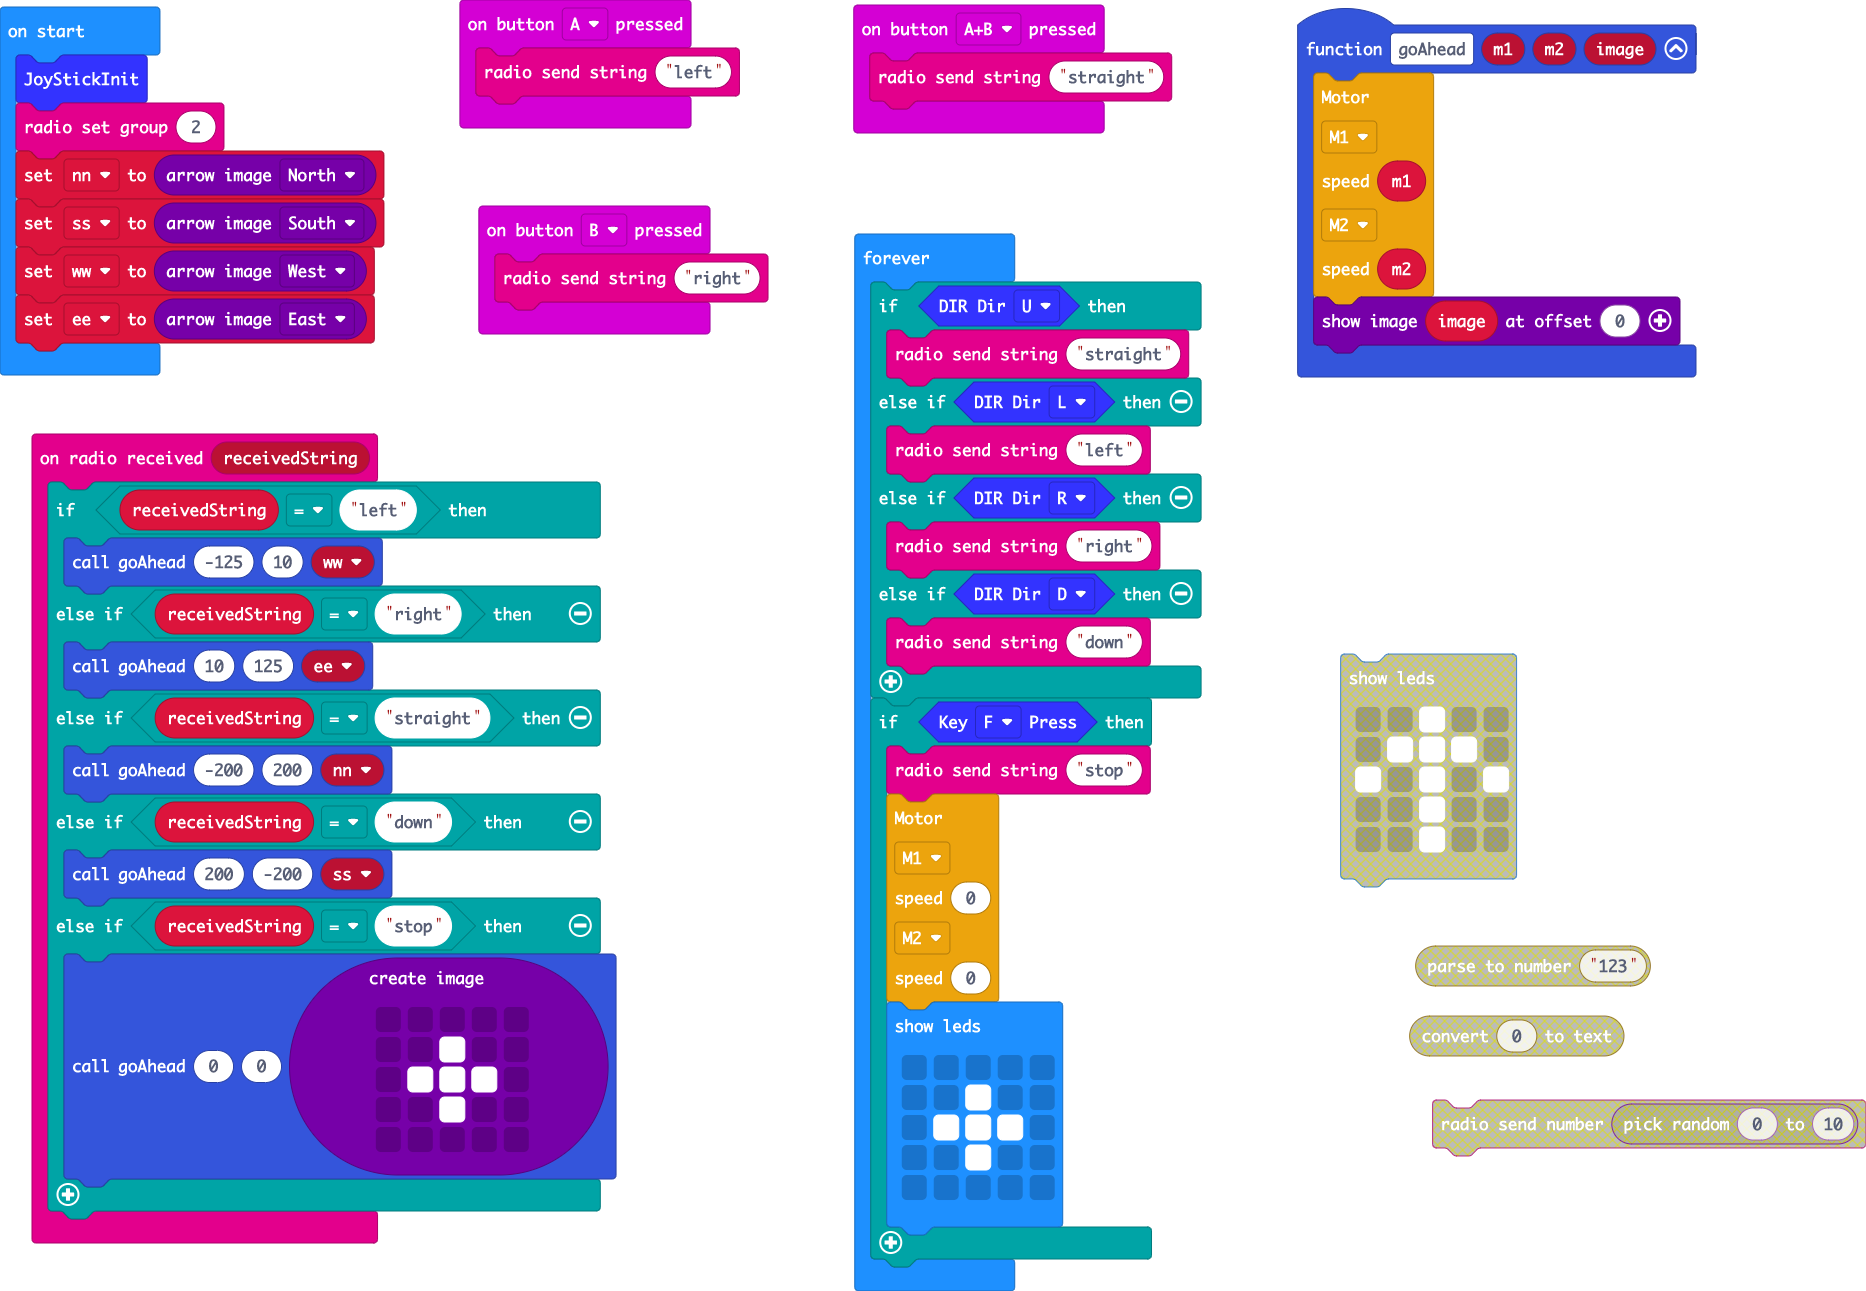
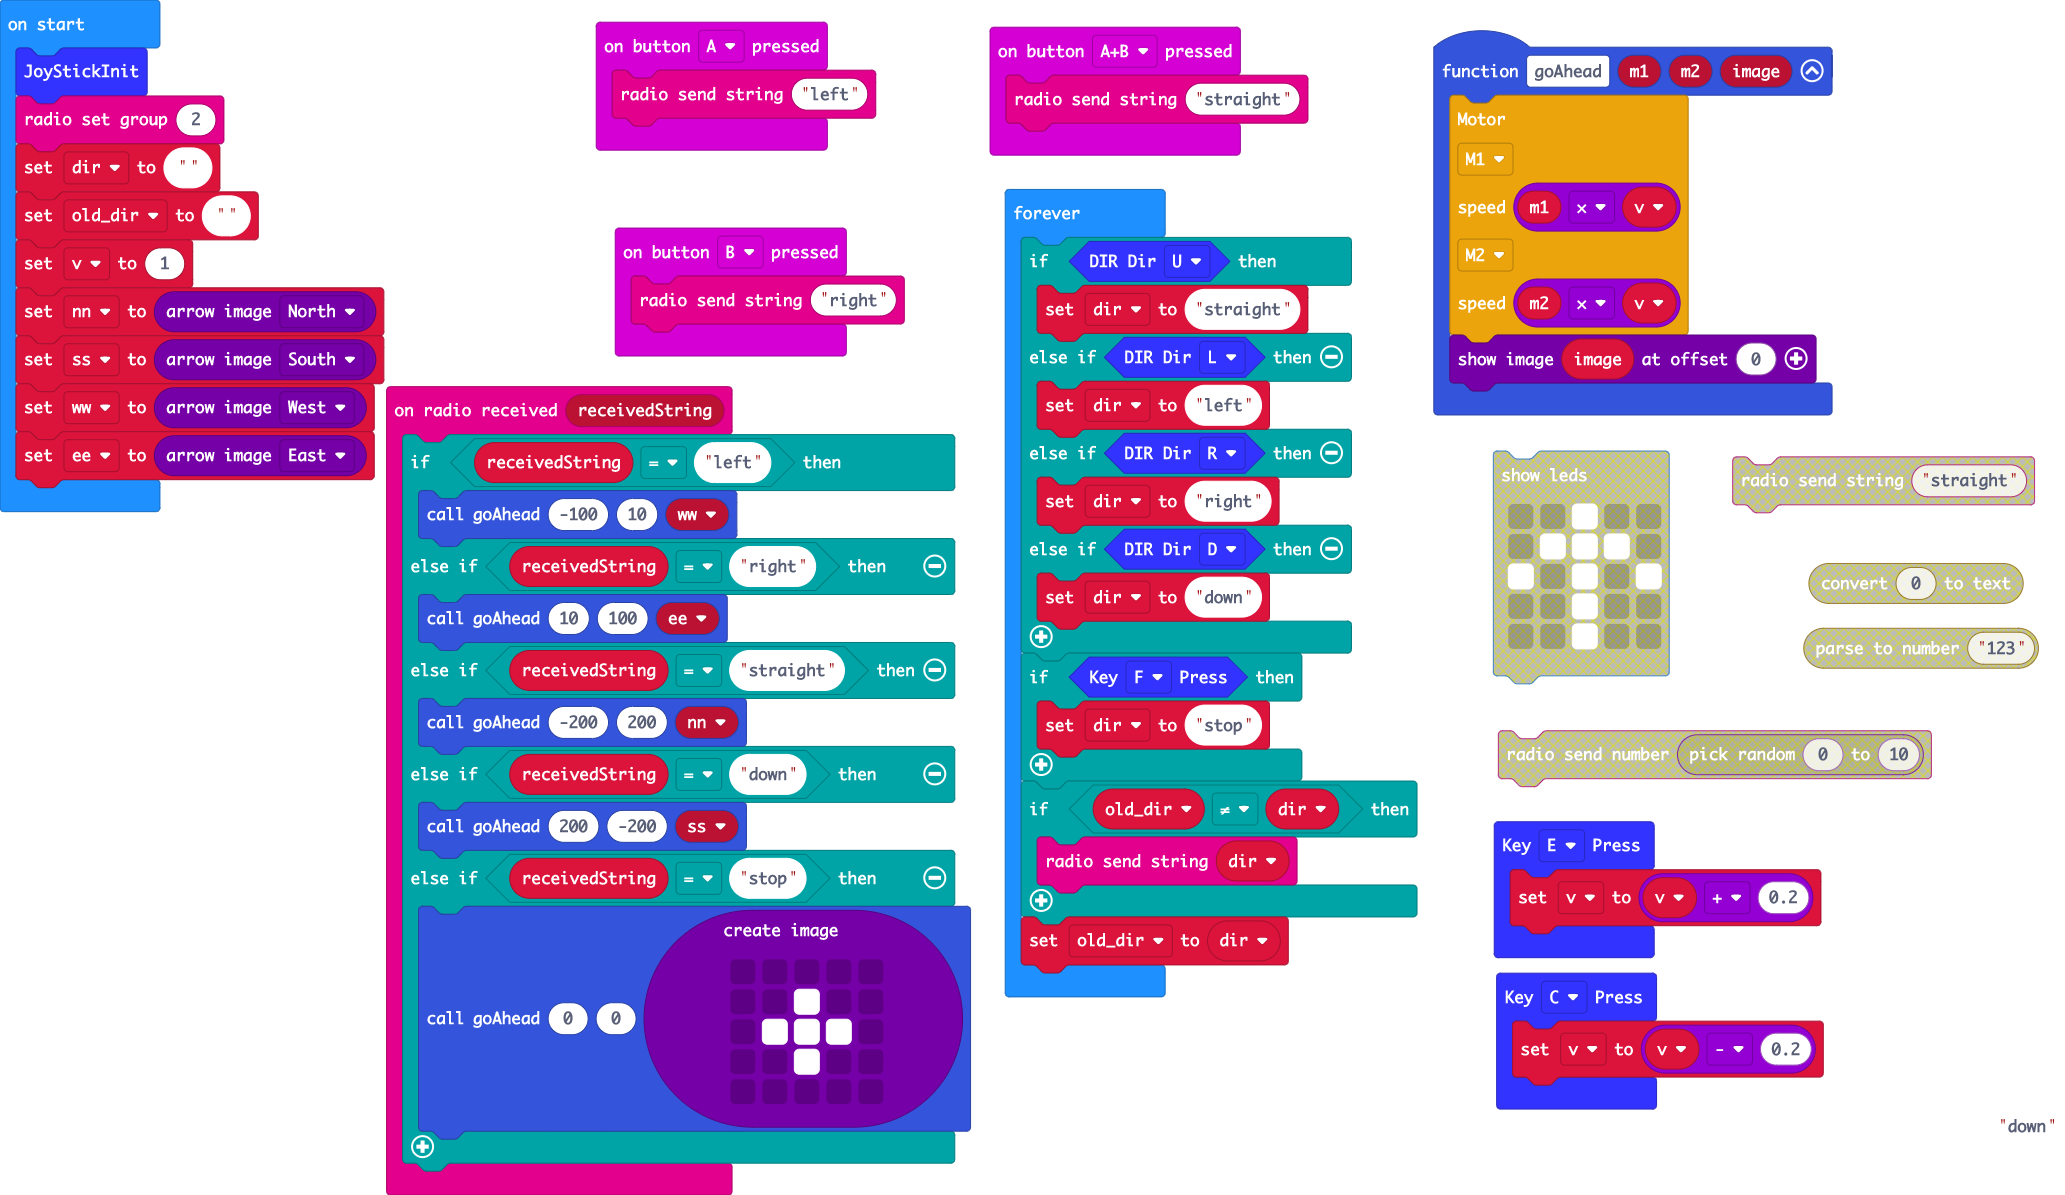
Update main.blocks, main.ts

diff --git a/main.ts b/main.ts
@@ -1,23 +1,26 @@
 function goAhead (m1: number, m2: number, image: Image) {
     SuperBit.MotorRunDual(
     SuperBit.enMotors.M1,
-    m1,
+    m1 * v,
     SuperBit.enMotors.M2,
-    m2
+    m2 * v
     )
     image.showImage(0)
 }
 input.onButtonPressed(Button.A, function () {
     radio.sendString("left")
 })
+WSJoyStick.onKey(KEY.E, function () {
+    v = v + 0.2
+})
 input.onButtonPressed(Button.AB, function () {
     radio.sendString("straight")
 })
 radio.onReceivedString(function (receivedString) {
     if (receivedString == "left") {
-        goAhead(-125, 10, ww)
+        goAhead(-100, 10, ww)
     } else if (receivedString == "right") {
-        goAhead(10, 125, ee)
+        goAhead(10, 100, ee)
     } else if (receivedString == "straight") {
         goAhead(-200, 200, nn)
     } else if (receivedString == "down") {
@@ -35,40 +38,38 @@ radio.onReceivedString(function (receivedString) {
 input.onButtonPressed(Button.B, function () {
     radio.sendString("right")
 })
+WSJoyStick.onKey(KEY.C, function () {
+    v = v - 0.2
+})
 let ee: Image = null
 let ww: Image = null
 let ss: Image = null
 let nn: Image = null
+let v = 0
 WSJoyStick.JoyStickInit()
 radio.setGroup(2)
+let dir = ""
+let old_dir = ""
+v = 1
 nn = images.arrowImage(ArrowNames.North)
 ss = images.arrowImage(ArrowNames.South)
 ww = images.arrowImage(ArrowNames.West)
 ee = images.arrowImage(ArrowNames.East)
 basic.forever(function () {
     if (WSJoyStick.Listen_Dir(DIR.U)) {
-        radio.sendString("straight")
+        dir = "straight"
     } else if (WSJoyStick.Listen_Dir(DIR.L)) {
-        radio.sendString("left")
+        dir = "left"
     } else if (WSJoyStick.Listen_Dir(DIR.R)) {
-        radio.sendString("right")
+        dir = "right"
     } else if (WSJoyStick.Listen_Dir(DIR.D)) {
-        radio.sendString("down")
+        dir = "down"
     }
     if (WSJoyStick.Listen_Key(KEY.F)) {
-        radio.sendString("stop")
-        SuperBit.MotorRunDual(
-        SuperBit.enMotors.M1,
-        0,
-        SuperBit.enMotors.M2,
-        0
-        )
-        basic.showLeds(`
-            . . . . .
-            . . # . .
-            . # # # .
-            . . # . .
-            . . . . .
-            `)
+        dir = "stop"
     }
+    if (old_dir != dir) {
+        radio.sendString(dir)
+    }
+    old_dir = dir
 })
